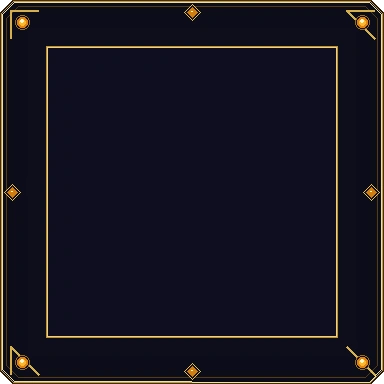
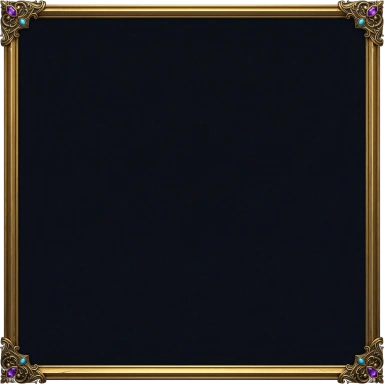
ui(vorath): rebuild 3D sculpted 9-slice plaques (N1/N3/N5/N6) and upgrade 27 Wave 3d standalone customer routes

diff --git a/maison-gooch/collection.css b/maison-gooch/collection.css
@@ -1,3 +1,14 @@
 :root{color-scheme:dark;--night:#0b0a0d;--paper:#eee8df;--gold:#d9b576;--muted:#b6b0ae;--line:#38302c}*{box-sizing:border-box}html{scroll-behavior:smooth;scroll-padding-top:20px}body{margin:0;background:var(--night);color:var(--paper);font-family:Arial,Helvetica,sans-serif}a{color:inherit}button{font:inherit}a:focus-visible,button:focus-visible{outline:3px solid #65e4d1;outline-offset:5px}.skip{position:absolute;left:20px;top:-100px;z-index:10}.skip:focus{top:20px;padding:16px;background:#111}.site-header{max-width:1560px;margin:auto;display:flex;align-items:center;justify-content:space-between;padding:28px 4vw;border-bottom:1px solid var(--line);gap:24px}.wordmark{font-size:12px;letter-spacing:.2em;font-weight:700;text-decoration:none}.site-header nav{display:flex;gap:28px;font-size:12px}.site-header nav a{text-decoration:none}.site-header nav a[aria-current]{color:var(--gold)}.hero{display:grid;grid-template-columns:.85fr 1.15fr;max-width:1560px;margin:auto;align-items:center;min-height:650px}.hero-copy{padding:70px 5vw}.eyebrow{text-transform:uppercase;letter-spacing:.18em;color:var(--gold);font-size:10px;font-weight:600;line-height:1.6}h1{font-family:Georgia,serif;font-size:clamp(46px,5vw,82px);line-height:.93;letter-spacing:-.04em;font-weight:400;margin:32px 0}h1 span{display:block;font-family:Georgia,serif;font-style:italic;font-size:clamp(24px,2.3vw,38px);line-height:1.15;color:var(--gold);letter-spacing:-.025em;margin-top:28px}.intro{font-size:15px;line-height:1.7;max-width:390px;color:var(--muted)}.button{display:inline-flex;align-items:center;justify-content:space-between;gap:28px;padding:16px 22px;border:1px solid var(--gold);text-decoration:none;font-size:12px;margin-top:22px}.gold{background:var(--gold);color:#171215}.availability{font-size:11px;line-height:1.7;color:var(--muted);max-width:320px;margin-top:24px}.hero-art{position:relative;display:block;margin:30px 4vw 30px 0;text-decoration:none;background:#d5c9b8}.hero-art img{width:100%;height:auto;display:block}.hero-art span{display:block;padding:16px 20px;font-size:10px;letter-spacing:.15em;text-transform:uppercase;background:#181417;color:var(--gold)}.editorial{text-align:center;padding:58px 24px 70px;border-top:1px solid var(--line);border-bottom:1px solid var(--line);background:radial-gradient(ellipse at 20% 110%,#113e372f,transparent 50%),radial-gradient(ellipse at 80% -20%,#6d245c30,transparent 50%)}.editorial>p:nth-child(2){font-family:Georgia,serif;font-size:clamp(22px,2.5vw,36px);line-height:1.4;margin:25px 0 18px}.editorial em{color:var(--gold)}.editorial>span{font-size:12px;color:var(--muted)}.collection{padding:70px 4vw;max-width:1560px;margin:auto}.section-head{display:flex;align-items:end;justify-content:space-between;gap:20px}.section-head h2,.development h2{font-family:Georgia,serif;font-weight:400;font-size:clamp(30px,3vw,48px);letter-spacing:-.02em;margin:8px 0 20px}.section-head>p{font-size:12px;color:var(--muted)}.filters{display:flex;gap:10px;flex-wrap:wrap;margin:22px 0 32px}.filters button{background:none;color:var(--muted);border:1px solid var(--line);padding:11px 16px;cursor:pointer;font-size:12px}.filters button[aria-pressed=true]{background:var(--paper);border-color:var(--paper);color:#171215}.pieces{display:grid;grid-template-columns:repeat(3,minmax(0,1fr));gap:32px 22px}.piece{min-width:0}.piece[hidden]{display:none}.art-link{display:block;overflow:hidden;background:#d5c9b8}.art-link img{display:block;width:100%;height:auto;aspect-ratio:3/2;object-fit:contain;transition:transform .35s}.art-link:hover img{transform:scale(1.025)}.piece-copy{padding:14px 1px 20px}.piece-copy h3{font-family:Georgia,serif;font-size:22px;font-weight:400;margin:8px 0;line-height:1.18}.piece-copy>p:not(.eyebrow){color:var(--muted);font-size:12px;line-height:1.6;min-height:38px}.piece-meta{display:flex;justify-content:space-between;border-top:1px solid var(--line);padding-top:12px;margin-top:16px;font-size:10px;color:var(--muted);gap:15px}.piece-meta span:first-child{color:var(--gold)}.development{max-width:1430px;margin:0 auto;padding:65px 4vw 85px;display:grid;grid-template-columns:1fr 1fr;gap:50px;border-top:1px solid var(--line)}.development p{font-size:14px;line-height:1.8;color:var(--muted)}.development .eyebrow{color:var(--gold);font-size:10px}footer{padding:40px 4vw;border-top:1px solid var(--line);font-size:11px;color:var(--muted);line-height:1.8}footer strong{letter-spacing:.14em;color:var(--gold);font-weight:400}dialog{padding:22px;max-width:96vw;width:1300px;max-height:94vh;background:#0c0b0e;border:1px solid var(--gold);color:var(--paper)}dialog::backdrop{background:#000d}dialog h2{font:20px Georgia,serif;margin:0 80px 16px 0}dialog img{max-height:72vh;width:100%;object-fit:contain}dialog p{font-size:12px;color:var(--muted)}#close-viewer{float:right;background:none;color:var(--gold);border:1px solid var(--line);padding:8px;cursor:pointer}.store-intro{padding:65px 4vw 35px;max-width:1250px;margin:auto}.store-intro h1{font-size:clamp(50px,8vw,95px);margin-bottom:24px}.store-options{max-width:1250px;margin:auto;padding:0 4vw 80px;display:grid;grid-template-columns:1fr 1fr;gap:28px}.store-option{border:1px solid var(--line);padding:28px;background:#151215}.store-option h2{font:34px Georgia,serif;font-weight:400}.store-option p{font-size:14px;color:var(--muted);line-height:1.7}.store-option img{display:block;width:100%;height:auto}.store-option .button{width:100%}@media(max-width:1050px){.hero{grid-template-columns:1fr 1fr;min-height:auto}.hero-copy{padding:48px 4vw}.pieces{grid-template-columns:repeat(2,minmax(0,1fr))}.hero-art{margin-right:3vw}.site-header nav{gap:18px}}@media(max-width:680px){.site-header{padding:20px;flex-wrap:wrap;gap:18px}.site-header nav{font-size:11px;gap:20px}.hero{display:flex;flex-direction:column}.hero-copy{padding:44px 24px 30px;width:100%}h1{font-size:60px}h1 span{font-size:30px}.hero-art{margin:0 20px 35px}.collection{padding:44px 20px}.pieces{grid-template-columns:1fr;gap:18px}.section-head{align-items:start}.section-head h2{font-size:32px}.section-head>p{white-space:nowrap;margin-top:35px}.filters{gap:8px}.filters button{font-size:11px;padding:10px 12px}.development{grid-template-columns:1fr;gap:10px;padding:44px 24px 60px}.piece-copy>p:not(.eyebrow){min-height:0}.editorial{padding:45px 20px}.store-options{grid-template-columns:1fr;padding:0 20px 50px}.store-intro{padding:35px 24px}.store-option{padding:22px}dialog{padding:14px}dialog img{max-height:65vh}}@media(prefers-reduced-motion:reduce){html{scroll-behavior:auto}*{transition:none!important}}
 
 .preorder-link{display:block;margin-top:16px;padding:13px 15px;border:1px solid var(--gold);color:var(--gold);text-decoration:none;text-align:center;font-size:12px}.piece-copy .stock-note{min-height:0!important;font-size:10px!important;margin:10px 0 0}.mail-help{font-size:11px!important}
+
+/* NSP-VORATH-WAVE3D */
+.wordmark{display:inline-flex;align-items:center;min-height:44px;padding:4px 12px!important;background:none!important;border-style:solid!important;border-color:transparent!important;border-radius:0!important;border-width:6px 14px!important;border-image:url("/warband/art/vorath_cartouche_9slice.webp") 22 64 fill / 6px 14px stretch!important;color:#fef3c7!important;white-space:nowrap;text-shadow:0 2px 4px #000}
+.site-header nav{gap:8px!important;flex-wrap:wrap}
+.site-header nav a,footer a{display:inline-flex!important;align-items:center;justify-content:center;min-height:44px;margin:2px;padding:4px 10px!important;background:none!important;border-style:solid!important;border-color:transparent!important;border-radius:0!important;border-width:6px 12px!important;border-image:url("/warband/art/vorath_stat_plaque_v01.webp") 18 36 fill / 6px 12px stretch!important;color:#fef3c7!important;text-decoration:none!important;text-shadow:0 1px 3px #000}
+.site-header nav a[aria-current]{border-image-source:url("/warband/art/vorath_btn_primary.webp")!important;border-image-slice:44 66 fill!important;color:#fffdf5!important}
+.button,.preorder-link,.filters button,#close-viewer{display:inline-flex!important;align-items:center;justify-content:center;min-height:44px;padding:6px 14px!important;background:none!important;border-style:solid!important;border-color:transparent!important;border-radius:0!important;border-width:8px 16px!important;border-image:url("/warband/art/vorath_btn_obsidian.webp") 44 66 fill / 8px 16px stretch!important;color:#fef3c7!important;text-decoration:none!important;text-shadow:0 2px 4px #000}
+.preorder-link{display:flex!important;width:100%}
+.button.gold,.filters button[aria-pressed=true]{border-image-source:url("/warband/art/vorath_btn_primary.webp")!important;color:#fffdf5!important}
+a.art-link{border-style:solid!important;border-color:transparent!important;border-radius:0!important;border-width:12px!important;border-image:url("/warband/art/vorath_card_frame_v01.webp") 48 / 12px stretch!important}
+a.art-link:focus-visible{outline:3px solid #65e4d1!important;outline-offset:-3px!important}

diff --git a/static/front-door.css b/static/front-door.css
@@ -44,7 +44,7 @@ a.card:focus-visible{outline:3px solid var(--ns-accent);outline-offset:-3px}
 .brand:hover,.brand:focus-visible{color:#fff;filter:brightness(1.07)}
 .brand img{width:30px;height:30px;border-radius:50%;flex:0 0 auto}
 .menu{display:flex;flex-wrap:wrap;align-items:center;gap:.25rem}
-.menu a{display:inline-flex;align-items:center;justify-content:center;min-height:40px;padding:3px 8px;background:none;border-style:solid;border-color:transparent;border-radius:0;border-width:6px 12px;border-image:url("/warband/art/vorath_stat_plaque_v01.webp") 18 36 fill / 6px 12px stretch;text-decoration:none;font-size:14px;font-weight:650;color:#fef3c7;text-shadow:0 1px 3px #000;white-space:nowrap}
+.menu a{display:inline-flex;align-items:center;justify-content:center;min-height:44px;padding:3px 8px;background:none;border-style:solid;border-color:transparent;border-radius:0;border-width:6px 12px;border-image:url("/warband/art/vorath_stat_plaque_v01.webp") 18 36 fill / 6px 12px stretch;text-decoration:none;font-size:14px;font-weight:650;color:#fef3c7;text-shadow:0 1px 3px #000;white-space:nowrap}
 .menu a:hover,.menu a:focus-visible{background:none;border-image-source:url("/warband/art/vorath_btn_active.webp");border-image-slice:44 66 fill;color:#fff;filter:brightness(1.08)}
 
 /* buttons: Vorath 9-slice obsidian & gilded primary plaques */
@@ -66,7 +66,7 @@ a.card:focus-visible{outline:3px solid var(--ns-accent);outline-offset:-3px}
 
 /* cards: static panels use dark obsidian; interactive link cards use Vorath 24k gold relic frames */
 .card{position:relative;display:flex;flex-direction:column;background:var(--ns-card);border:1px solid var(--ns-line);border-radius:var(--ns-radius);box-shadow:var(--ns-shadow);overflow:hidden;text-decoration:none;color:var(--ns-ink)}
-a.card{background-color:var(--ns-card);background-image:none;border-style:solid;border-color:transparent;border-radius:0;border-width:12px;border-image:url("/warband/art/vorath_card_frame_v01.webp") 48 fill / 12px round}
+a.card{background-color:var(--ns-card);background-image:none;border-style:solid;border-color:transparent;border-radius:0;border-width:14px;border-image:url("/warband/art/vorath_card_frame_v01.webp") 48 fill / 14px stretch}
 .card-body{display:flex;flex-direction:column;gap:.35rem;padding:1.15rem 1.25rem 1.25rem;flex:1;min-width:0;overflow-wrap:break-word}
 .card h3{font-size:22px;overflow-wrap:break-word}
 .card p{color:var(--ns-muted);font-size:16px;line-height:1.5;overflow-wrap:break-word}
@@ -115,11 +115,10 @@ a.card:hover,a.card:focus-visible{border-color:transparent;filter:brightness(1.0
 @media (max-width:720px){
   body{font-size:16px}
   .top .wrap{flex-direction:column;align-items:stretch;gap:.25rem;padding-block:.2rem .25rem}
-  .brand{align-self:flex-start;min-height:40px;font-size:15px;padding:3px 9px;border-width:6px 12px;border-image-width:6px 12px}
+  .brand{align-self:flex-start;min-height:44px;font-size:15px;padding:3px 9px;border-width:6px 12px;border-image-width:6px 12px}
   .brand img{width:26px;height:26px}
-  .menu{display:flex;flex-wrap:nowrap;overflow-x:auto;-webkit-overflow-scrolling:touch;scrollbar-width:none;justify-content:flex-start;gap:.25rem;margin-inline:0;padding-bottom:2px}
-  .menu::-webkit-scrollbar{display:none}
-  .menu a{flex-shrink:0;white-space:nowrap;min-height:38px;padding:3px 7px;border-width:5px 9px;border-image-width:5px 9px;font-size:13px}
+  .menu{display:flex;flex-wrap:wrap;overflow:visible;justify-content:flex-start;gap:.16rem;margin-inline:0;padding-bottom:2px}
+  .menu a{white-space:nowrap;min-height:44px;padding:2px 4px;border-width:5px 7px;border-image-width:5px 7px;font-size:14px}
   .button{padding:6px 12px;border-width:9px 16px;border-image-width:9px 16px;font-size:15px}
   .hero{grid-template-columns:minmax(0,1fr) 112px;grid-template-rows:auto;gap:.6rem 1rem;padding-block:1rem .5rem}
   .hero h1{font-size:28px;grid-column:1;grid-row:1;align-self:center}
@@ -135,7 +134,7 @@ a.card:hover,a.card:focus-visible{border-color:transparent;filter:brightness(1.0
   .services p{margin-top:.2rem;font-size:15px}
   .doors{grid-template-columns:repeat(2,minmax(0,1fr));gap:.6rem;margin-top:.6rem}
   .doors-text{display:contents}
-  a.card{border-width:10px;border-image-width:10px}
+  a.card{border-width:12px;border-image-width:12px}
   .card-body{padding:.8rem .9rem .9rem;gap:.2rem}
   .card h3{font-size:19px}
   .card p{font-size:15px;line-height:1.45}

diff --git a/idc-programming/index.html b/idc-programming/index.html
@@ -1952,7 +1952,18 @@ function loadTrailer(src, poster, title, sub) {
   <a href="/idr" style="flex:none;color:#00e5ff;font-size:.66rem;letter-spacing:1px;text-decoration:none;border:1px solid rgba(0,229,255,.4);border-radius:5px;padding:.28rem .6rem">FULL STATION</a>
   <audio id="idr-audio" preload="none"></audio>
 </div>
-<style>@keyframes idrpulse{50%{opacity:.3}}@media (prefers-reduced-motion:reduce){ #idr-live{animation:none}} body{padding-bottom:56px}</style>
+<style>@keyframes idrpulse{50%{opacity:.3}}@media (prefers-reduced-motion:reduce){ #idr-live{animation:none}} body{padding-bottom:56px}
+/* NSP-VORATH-WAVE3D */
+nav a.nav-brand{display:inline-flex!important;align-items:center;min-height:46px;padding:4px 12px!important;background:none!important;border-style:solid!important;border-color:transparent!important;border-radius:0!important;border-width:7px 15px!important;border-image:url("/warband/art/vorath_cartouche_9slice.webp") 22 64 fill / 7px 15px stretch!important;color:#fef3c7!important;text-shadow:0 2px 4px #000;white-space:nowrap;flex-shrink:0}
+nav .nav-links{display:flex!important;flex-wrap:nowrap!important;overflow-x:auto!important;overflow-y:hidden!important;scrollbar-width:thin!important;scrollbar-color:#d4a74a rgba(255,255,255,.08)!important;-webkit-overflow-scrolling:touch;max-width:min(74vw,1120px)!important;gap:.35rem!important;padding-bottom:4px!important;-webkit-mask-image:linear-gradient(90deg,#000 0%,#000 92%,transparent 100%);mask-image:linear-gradient(90deg,#000 0%,#000 92%,transparent 100%)}
+nav .nav-links a,footer a,#idr-dock>a,body>p>a{display:inline-flex!important;align-items:center;justify-content:center;flex:0 0 auto;white-space:nowrap;min-height:44px;margin:1px;padding:4px 9px!important;background:none!important;border-style:solid!important;border-color:transparent!important;border-radius:0!important;border-width:6px 11px!important;border-image:url("/warband/art/vorath_stat_plaque_v01.webp") 18 36 fill / 6px 11px stretch!important;color:#fef3c7!important;text-decoration:none!important;text-shadow:0 1px 3px #000}
+@media (max-width:760px){nav{flex-direction:column!important;align-items:stretch!important;gap:6px!important;padding:8px 12px!important}nav a.nav-brand{align-self:flex-start!important;min-height:44px;padding:3px 10px!important}nav .nav-links{max-width:100%!important;gap:.22rem!important}nav .nav-links a{padding:2px 6px!important;border-width:5px 8px!important;border-image-width:5px 8px!important;font-size:13.5px!important}}
+#idc-continuum a,#idc-screening-room button{background:none!important;border-style:solid!important;border-color:transparent!important;border-radius:0!important;border-width:12px!important;border-image:url("/warband/art/vorath_card_frame_v01.webp") 48 fill / 12px stretch!important;color:#fef3c7!important;box-shadow:0 10px 26px rgba(0,0,0,.6)!important}
+body>a[href="/watch/choice-to-repair/"]{border-style:solid!important;border-color:transparent!important;border-radius:0!important;border-width:12px!important;border-image:url("/warband/art/vorath_card_frame_v01.webp") 48 / 12px stretch!important}
+a#idc-theater-download,button#idc-playall,.buy-btn,a[href*="youtube.com"],a[href*="youtu.be"],a[href*=".mp4"]:not([id="idc-theater-download"]){display:inline-flex!important;align-items:center;justify-content:center;min-height:44px;padding:4px 12px!important;background:none!important;border-style:solid!important;border-color:transparent!important;border-radius:0!important;border-width:7px 14px!important;border-image:url("/warband/art/vorath_btn_obsidian.webp") 44 66 fill / 7px 14px stretch!important;color:#fef3c7!important;text-decoration:none!important;box-shadow:none!important;text-shadow:0 2px 4px #000}
+.idc-season-feature-grid .buy-btn,button#idc-playall{border-image-source:url("/warband/art/vorath_btn_primary.webp")!important;color:#fffdf5!important}
+button#idr-toggle{background:url("/warband/art/vorath_btn_primary.webp") center / 100% 100% no-repeat!important;border:0!important;border-radius:0!important;color:#fffdf5!important;box-shadow:none!important}
+</style>
 <script>
 (function(){
   var a=document.getElementById('idr-audio'),btn=document.getElementById('idr-toggle'),

diff --git a/idr/customer-radio.css b/idr/customer-radio.css
@@ -8,3 +8,15 @@
 @media(max-width:360px){.masthead{flex-wrap:wrap}.masthead nav{width:100%;justify-content:space-between}.hero-actions{gap:18px}}
 @media(max-width:720px),(max-height:500px){body{padding-bottom:0}#idr-station-player{position:static;z-index:auto;background:none;box-shadow:none;padding:20px 0 28px}}
 @media(prefers-reduced-motion:reduce){*,*::before,*::after{scroll-behavior:auto!important;animation:none!important;transition:none!important}}
+
+/* NSP-VORATH-WAVE3D */
+header.masthead .brand{display:inline-flex;align-items:center;min-height:44px;padding:4px 12px;background:none!important;border-style:solid!important;border-color:transparent!important;border-radius:0!important;border-width:6px 14px!important;border-image:url("/warband/art/vorath_cartouche_9slice.webp") 22 64 fill / 6px 14px stretch!important;color:#fef3c7!important;text-shadow:0 2px 4px #000;white-space:nowrap}
+header.masthead nav{gap:6px!important}
+header.masthead nav a,footer.site-footer a,.page-footer a{display:inline-flex!important;align-items:center;justify-content:center;min-height:44px;padding:3px 9px!important;background:none!important;border-style:solid!important;border-color:transparent!important;border-radius:0!important;border-width:5px 11px!important;border-image:url("/warband/art/vorath_stat_plaque_v01.webp") 18 36 fill / 5px 11px stretch!important;color:#fef3c7!important;text-decoration:none!important;box-shadow:none!important;text-shadow:0 1px 3px #000}
+header.masthead nav a[aria-current]{border-image-source:url("/warband/art/vorath_btn_primary.webp")!important;border-image-slice:44 66 fill!important;color:#fffdf5!important}
+button#idr-onair-btn,.primary,.idr-track-play[aria-pressed="true"]{display:inline-flex;align-items:center;justify-content:center;min-height:44px;padding:6px 16px!important;background:none!important;border-style:solid!important;border-color:transparent!important;border-radius:0!important;border-width:9px 18px!important;border-image:url("/warband/art/vorath_btn_primary.webp") 44 66 fill / 9px 18px stretch!important;color:#fffdf5!important;text-shadow:0 2px 4px #000;text-decoration:none!important}
+.hero-actions a:not(.primary),.story a,button.idr-track-play,.idr-station-controls button{display:inline-flex!important;align-items:center;justify-content:center;min-height:44px;padding:5px 12px!important;background:none!important;border-style:solid!important;border-color:transparent!important;border-radius:0!important;border-width:7px 14px!important;border-image:url("/warband/art/vorath_btn_obsidian.webp") 44 66 fill / 7px 14px stretch!important;color:#fef3c7!important;text-decoration:none!important;text-shadow:0 2px 4px #000}
+select#idr-genre,select{-webkit-appearance:none!important;appearance:none!important;min-height:44px;padding:6px 14px!important;background:none!important;border-style:solid!important;border-color:transparent!important;border-radius:0!important;border-width:7px 14px!important;border-image:url("/warband/art/vorath_stat_plaque_v01.webp") 18 36 fill / 7px 14px stretch!important;color:#fef3c7!important}
+details.extras>summary{display:flex;align-items:center;min-height:46px;padding:6px 14px!important;background:none!important;border-style:solid!important;border-color:transparent!important;border-radius:0!important;border-width:8px 16px!important;border-image:url("/warband/art/vorath_cartouche_9slice.webp") 22 64 fill / 8px 16px stretch!important;color:#fef3c7!important;list-style:none}
+details.extras>summary::-webkit-details-marker{display:none}
+button.idr-track-play:hover,.idr-station-controls button:hover,.story a:hover,.hero-actions a:hover,header.masthead nav a:hover,footer.site-footer a:hover{border-image-source:url("/warband/art/vorath_btn_active.webp")!important;border-image-slice:44 66 fill!important;color:#fff!important}

diff --git a/idr/artwork/nordic-skaldic-chant/index.html b/idr/artwork/nordic-skaldic-chant/index.html
@@ -1,4 +1,11 @@
 <!doctype html>
 <html lang="en"><head><meta charset="utf-8"><meta name="viewport" content="width=device-width,initial-scale=1"><title>Nordic Skaldic Chant · Cover artwork | NorthStar Prime</title><meta name="description" content="Original cover artwork for Nordic Skaldic Chant by NorthStar World Ensemble. Download the native artwork."><style>
 :root{color-scheme:dark;background:#060c15;color:#f2ebd8;font-family:Georgia,'Times New Roman',serif}*{box-sizing:border-box}body{margin:0}a{color:inherit}.brand{display:block;padding:28px 5vw;text-decoration:none;letter-spacing:.18em;font-size:13px;border-bottom:1px solid #bc95573d}main{max-width:1400px;margin:auto;padding:48px 5vw;display:grid;grid-template-columns:minmax(0,1.15fr) minmax(280px,.85fr);gap:48px;align-items:center}.cover{width:100%;height:auto;display:block;border:1px solid #bd95574a;box-shadow:0 18px 75px #0008}.eyebrow{color:#bca67d;letter-spacing:.18em;font-size:12px}h1{font-weight:400;font-size:clamp(38px,4.7vw,72px);line-height:1.08;margin:20px 0}p{font-size:19px;line-height:1.65;color:#c3c8cf}.artist{color:#dfc392;font-size:17px;letter-spacing:.1em}.download{display:inline-block;border-bottom:1px solid #d8bc85;padding:15px 0;text-decoration:none;letter-spacing:.06em;color:#f0d8aa}.download:hover{color:#fff}.download:focus-visible,.brand:focus-visible{outline:2px solid #72d8da;outline-offset:6px}.detail{font-size:14px;color:#94a0b0}footer{max-width:1400px;margin:auto;padding:0 5vw 40px;font-size:13px;color:#818b9b} @media(max-width:750px){main{grid-template-columns:1fr;padding-top:24px;gap:28px}h1{font-size:42px}.brand{padding-top:20px;padding-bottom:20px}}
+
+/* NSP-VORATH-WAVE3D */
+a[href],button{display:inline-flex;align-items:center;justify-content:center;min-height:44px;margin:2px;padding:5px 12px!important;background:none!important;border-style:solid!important;border-color:transparent!important;border-radius:0!important;border-width:7px 14px!important;border-image:url("/warband/art/vorath_stat_plaque_v01.webp") 18 36 fill / 7px 14px stretch!important;color:#fef3c7!important;text-decoration:none!important;text-shadow:0 1px 3px #000}
+a.brand{border-image:url("/warband/art/vorath_cartouche_9slice.webp") 22 64 fill / 7px 15px stretch!important}
+a.button,a.download{border-width:9px 18px!important;border-image:url("/warband/art/vorath_btn_primary.webp") 44 66 fill / 9px 18px stretch!important;color:#fffdf5!important;font-weight:700}
+nav.toc a{display:flex!important;justify-content:flex-start;width:100%}
+a[href]:hover,button:hover{border-image-source:url("/warband/art/vorath_btn_active.webp")!important;border-image-slice:44 66 fill!important;color:#fff!important}
 </style></head><body><a class="brand" href="https://northstarprime.net/">NORTHSTAR PRIME</a><main><img class="cover" src="./NORDIC_SKALDIC_CHANT_COVER_v02.png" width="1254" height="1254" alt="Gold-carved Nordic lyre overlooking a moonlit glacial fjord beneath a rainbow aurora, with engraved Nordic Skaldic Chant lettering."><section><div class="eyebrow">IDR · ORIGINAL COVER ART</div><h1>Nordic Skaldic Chant</h1><p class="artist">NorthStar World Ensemble</p><p>A lyre carved in gold and dark wood. A silent fjord beneath ribbons of jewel-colored aurora. An original visual companion to the recording.</p><a class="download" href="./NORDIC_SKALDIC_CHANT_COVER_v02.png" download="NORDIC_SKALDIC_CHANT_COVER_v02.png">Download cover artwork ↗</a><p class="detail">Native PNG · 1254 × 1254 pixels<br>Original AI-assisted artwork · Cover edition 02</p><p class="detail">This page presents cover artwork. The recording is awaiting editorial listening review; no music video is released here.</p></section></main><footer>© 2026 NorthStar Prime · Digital artwork</footer></body></html>

diff --git a/coloring-studio/index.html b/coloring-studio/index.html
@@ -27,6 +27,17 @@
 #paintStatus{font-size:.95rem;line-height:1.5}#paintStatus[data-state="error"]{color:#ffaaa7}button:disabled{opacity:.45;cursor:not-allowed}.canvas-wrap{min-width:0}canvas{touch-action:none;max-width:100%;height:auto}.palette button{padding:0;min-width:48px;min-height:48px}.tabs{flex-wrap:wrap}.stream-controls{display:none}html{scroll-behavior:auto}.page-card{scroll-snap-align:none}@media(max-width:700px){.studio{padding:1rem}.panel{min-width:0}.canvas-wrap{padding:.5rem}.gallery{overflow:hidden}.page-card{padding:2rem 1rem}.studio-links{flex-wrap:wrap}}
 
 @media screen{.canvas-wrap{min-height:0}.canvas-wrap canvas{width:auto;height:auto;max-height:80vh;max-width:100%}}
+
+/* NSP-VORATH-WAVE3D */
+.hero h1{line-height:1.1!important;padding-bottom:.06em!important}
+.studio-brand{padding:5px 12px!important;background:none!important;border-style:solid!important;border-color:transparent!important;border-radius:0!important;border-width:7px 15px!important;border-image:url("/warband/art/vorath_cartouche_9slice.webp") 22 64 fill / 7px 15px stretch!important;color:#fef3c7!important;min-height:44px;white-space:nowrap}
+.studio-links a{display:inline-flex!important;align-items:center;justify-content:center;min-height:44px;padding:4px 10px!important;background:none!important;border-style:solid!important;border-color:transparent!important;border-radius:0!important;border-width:6px 12px!important;border-image:url("/warband/art/vorath_stat_plaque_v01.webp") 18 36 fill / 6px 12px stretch!important;color:#fef3c7!important;text-shadow:0 1px 3px #000}
+.tab,.control,.page-action,.page-nav button,.stream-controls button,a#collectionDownload,a.order{background:none!important;border-style:solid!important;border-color:transparent!important;border-radius:0!important;border-width:8px 16px!important;border-image:url("/warband/art/vorath_btn_obsidian.webp") 44 66 fill / 8px 16px stretch!important;color:#fef3c7!important;box-shadow:none!important;text-shadow:0 2px 4px #000}
+a#collectionDownload,a.order{padding:8px 18px!important}
+.tab[aria-selected="true"],.control.active,.paint-action,.print-action,.control.primary,a#collectionDownload,a.order{border-image-source:url("/warband/art/vorath_btn_primary.webp")!important;color:#fffdf5!important}
+.swatch{border-style:solid!important;border-color:transparent!important;border-radius:0!important;border-width:6px!important;border-image:url("/warband/art/vorath_card_frame_v01.webp") 48 / 6px stretch!important}
+input#brushSize.range{-webkit-appearance:none!important;appearance:none!important;height:28px!important;padding:0 6px!important;background:url("/warband/art/vorath_stat_plaque_v01.webp") center / 100% 100% no-repeat!important;border:0!important;border-radius:0!important;cursor:pointer}
+input#brushSize.range::-webkit-slider-thumb{-webkit-appearance:none;appearance:none;width:20px;height:20px;background:url("/warband/art/vorath_btn_primary.webp") center / 100% 100% no-repeat;border:0;cursor:pointer}
 </style>
 <script type="application/ld+json">{"@context": "https://schema.org", "@type": "WebPage", "name": "PaintForge · NorthStar Free Coloring Studio", "url": "https://northstarprime.net/coloring-studio/", "isPartOf": {"@type": "WebSite", "name": "NorthStar Prime", "url": "https://northstarprime.net/"}, "publisher": {"@type": "Organization", "name": "NorthStar Prime", "url": "https://northstarprime.net/"}, "description": "PaintForge: 20 reviewed NorthStar coloring pages shown individually at full resolution, with free browser painting for guests.", "inLanguage": "en"}</script>
 </head>

diff --git a/watch/choice-to-repair/index.html b/watch/choice-to-repair/index.html
@@ -15,6 +15,11 @@
 <link rel="icon" href="/favicon.svg" type="image/svg+xml">
 <style>
 :root{color-scheme:dark;font-family:system-ui,sans-serif;background:#080911;color:#f4eedf}*{box-sizing:border-box}body{margin:0;background:radial-gradient(ellipse at 15% 10%,#27314766,transparent 45%),radial-gradient(ellipse at 90% 60%,#462a4555,transparent 50%),#080911}a{color:#eed093;text-underline-offset:.25em}a:hover{color:#fff}a:focus-visible,video:focus-visible{outline:3px solid #97eaf0;outline-offset:5px}header,main,footer{max-width:1100px;margin:auto;padding:24px}header{display:flex;justify-content:space-between;gap:20px;flex-wrap:wrap;border-bottom:1px solid #d2ae612d}header a{text-decoration:none}header strong{letter-spacing:.12em}main{padding-top:52px}.eyebrow{color:#b0d8dc;letter-spacing:.22em;text-transform:uppercase;font-size:.73rem}h1{font-family:Georgia,serif;font-size:clamp(2.3rem,6vw,4.8rem);font-weight:400;line-height:1.1;margin:.3em 0}.intro{color:#c6c4ca;font-size:1.12rem;line-height:1.7;max-width:640px}figure{margin:32px 0 24px}video{display:block;width:100%;aspect-ratio:16/9;background:#000;border:1px solid #d2ae6166;border-radius:12px;box-shadow:0 18px 70px #0008}figcaption{color:#aaa8b4;font-size:.84rem;line-height:1.6;margin-top:12px}.details{display:grid;grid-template-columns:1.2fr 1fr;gap:40px;margin-top:35px;padding-top:24px;border-top:1px solid #d2ae612d}h2{font:1.4rem Georgia,serif}p{line-height:1.7}.transcript{font:italic 1.65rem Georgia,serif;color:#eed093}.note{color:#aaa8b4;font-size:.87rem}footer{color:#aaa8b4;margin-top:35px;border-top:1px solid #d2ae612d;font-size:.85rem}@media(max-width:600px){header,main,footer{padding:20px}main{padding-top:30px}.details{grid-template-columns:1fr;gap:8px}}
+
+/* NSP-VORATH-WAVE3D */
+header a,.details a,video a{display:inline-flex;align-items:center;justify-content:center;min-height:44px;padding:5px 12px!important;background:none!important;border-style:solid!important;border-color:transparent!important;border-radius:0!important;border-width:7px 14px!important;border-image:url("/warband/art/vorath_stat_plaque_v01.webp") 18 36 fill / 7px 14px stretch!important;color:#fef3c7!important;text-decoration:none!important;text-shadow:0 1px 3px #000}
+header a:first-child{border-image:url("/warband/art/vorath_cartouche_9slice.webp") 22 64 fill / 7px 16px stretch!important}
+.details a{border-width:8px 16px!important;border-image:url("/warband/art/vorath_btn_primary.webp") 44 66 fill / 8px 16px stretch!important;color:#fffdf5!important;font-weight:700}
 </style>
 <script type="application/ld+json">{"@context": "https://schema.org", "@type": "WebPage", "name": "The Choice to Repair · NorthStar Prime", "url": "https://northstarprime.net/watch/choice-to-repair/", "isPartOf": {"@type": "WebSite", "name": "NorthStar Prime", "url": "https://northstarprime.net/"}, "publisher": {"@type": "Organization", "name": "NorthStar Prime", "url": "https://northstarprime.net/"}, "description": "An eight-second original VORATH film: an aurora eye opens onto the golden Loomwheel. I can repair.", "inLanguage": "en"}</script>
 </head>

diff --git a/dharma/index.html b/dharma/index.html
@@ -710,6 +710,16 @@
     transition: opacity 0.8s ease-in-out;
   }
   #flash-overlay.active { opacity: 1; }
+
+/* NSP-VORATH-WAVE3D */
+nav .nav-links a,footer .footer-links a,.card p a{display:inline-flex!important;align-items:center;justify-content:center;flex:0 0 auto;white-space:nowrap;min-height:44px;margin:2px;padding:4px 10px!important;background:none!important;border-style:solid!important;border-color:transparent!important;border-radius:0!important;border-width:6px 12px!important;border-image:url("/warband/art/vorath_stat_plaque_v01.webp") 18 36 fill / 6px 12px stretch!important;color:#fef3c7!important;text-decoration:none!important;text-shadow:0 1px 3px #000}
+@media (max-width:760px){nav{flex-direction:column!important;align-items:flex-start!important;gap:8px!important}nav .nav-links{display:flex!important;flex-wrap:wrap!important;overflow:visible!important;max-width:100%!important;gap:.25rem!important}nav .nav-links a{padding:2px 7px!important;border-width:5px 9px!important;border-image-width:5px 9px!important}}
+.terminal-input-row{flex-wrap:wrap!important;gap:8px!important}
+button#btnExecute,button#btnFailsafe,button#btnAudioToggle,button#btnStateInflight,button#btnStateCrashed,button#btnSubmitTest{display:inline-flex!important;align-items:center;justify-content:center;min-height:44px;padding:5px 14px!important;background:none!important;border-style:solid!important;border-color:transparent!important;border-radius:0!important;border-width:8px 16px!important;border-image:url("/warband/art/vorath_btn_obsidian.webp") 44 66 fill / 8px 16px stretch!important;color:#fef3c7!important;box-shadow:none!important;text-shadow:0 2px 4px #000}
+button#btnStateInflight,button#btnSubmitTest{border-image-source:url("/warband/art/vorath_btn_primary.webp")!important;color:#fffdf5!important}
+input#termInput{-webkit-appearance:none!important;appearance:none!important;flex:1 1 160px!important;min-width:0!important;max-width:100%!important;min-height:42px;padding:4px 10px!important;background:none!important;border-style:solid!important;border-color:transparent!important;border-radius:0!important;border-width:6px 12px!important;border-image:url("/warband/art/vorath_stat_plaque_v01.webp") 18 36 fill / 6px 12px stretch!important;color:var(--crt-green)!important}
+.option-label input[type="radio"]{-webkit-appearance:none!important;appearance:none!important;width:22px!important;height:22px!important;min-width:22px!important;margin:0 8px 0 0!important;background:url("/warband/art/vorath_btn_obsidian.webp") center / 100% 100% no-repeat!important;border:0!important;border-radius:0!important;cursor:pointer;vertical-align:middle}
+.option-label input[type="radio"]:checked{background:url("/warband/art/vorath_btn_primary.webp") center / 100% 100% no-repeat!important;box-shadow:0 0 8px rgba(245,197,66,.75)!important}
 </style>
 </head>
 <body>

diff --git a/holidays/index.html b/holidays/index.html
@@ -3541,7 +3541,14 @@
   <a href="/idr" style="flex:none;color:#00e5ff;font-size:.66rem;letter-spacing:1px;text-decoration:none;border:1px solid rgba(0,229,255,.4);border-radius:5px;padding:.28rem .6rem">FULL STATION</a>
   <audio id="idr-audio" preload="none"></audio>
 </div>
-<style>@keyframes idrpulse{50%{opacity:.3}}@media (prefers-reduced-motion:reduce){ #idr-live{animation:none}} body{padding-bottom:56px}</style>
+<style>@keyframes idrpulse{50%{opacity:.3}}@media (prefers-reduced-motion:reduce){ #idr-live{animation:none}} body{padding-bottom:56px}
+/* NSP-VORATH-WAVE3D */
+nav a.nav-brand{display:inline-flex!important;align-items:center;min-height:46px;padding:4px 12px!important;background:none!important;border-style:solid!important;border-color:transparent!important;border-radius:0!important;border-width:7px 15px!important;border-image:url("/warband/art/vorath_cartouche_9slice.webp") 22 64 fill / 7px 15px stretch!important;color:#fef3c7!important;text-shadow:0 2px 4px #000;white-space:nowrap;flex-shrink:0}
+nav .nav-links a,footer a,#idr-dock>a,.section>a[href*="ckd-kitchen"],.recipe-content a,tbody td a{display:inline-flex!important;align-items:center;justify-content:center;min-height:44px;margin:2px;padding:4px 10px!important;background:none!important;border-style:solid!important;border-color:transparent!important;border-radius:0!important;border-width:6px 12px!important;border-image:url("/warband/art/vorath_stat_plaque_v01.webp") 18 36 fill / 6px 12px stretch!important;color:#fef3c7!important;text-decoration:none!important;text-shadow:0 1px 3px #000}
+a.holiday-jump,a.holiday-buy,.tier-btn{display:inline-flex!important;align-items:center;justify-content:center;min-height:46px;padding:6px 14px!important;background:none!important;border-style:solid!important;border-color:transparent!important;border-radius:0!important;border-width:8px 16px!important;border-image:url("/warband/art/vorath_btn_primary.webp") 44 66 fill / 8px 16px stretch!important;color:#fffdf5!important;text-decoration:none!important;box-shadow:none!important;text-shadow:0 2px 4px #000}
+button.tier-btn,a.holiday-jump{border-image-source:url("/warband/art/vorath_btn_obsidian.webp")!important;color:#fef3c7!important}
+button#idr-toggle{background:url("/warband/art/vorath_btn_primary.webp") center / 100% 100% no-repeat!important;border:0!important;border-radius:0!important;color:#fffdf5!important;box-shadow:none!important}
+</style>
 <script>
 (function(){
   var a=document.getElementById('idr-audio'),btn=document.getElementById('idr-toggle'),

diff --git a/research/index.html b/research/index.html
@@ -72,6 +72,13 @@
     color: var(--gold);
     border-color: rgba(245, 197, 66, 0.45);
   }
+
+/* NSP-VORATH-WAVE3D */
+.topline a{display:inline-flex;align-items:center;min-height:44px;margin:2px;padding:4px 10px!important;background:none!important;border-style:solid!important;border-color:transparent!important;border-radius:0!important;border-width:6px 12px!important;border-image:url("/warband/art/vorath_stat_plaque_v01.webp") 18 36 fill / 6px 12px stretch!important;color:#fef3c7!important;text-decoration:none!important;text-shadow:0 1px 3px #000}
+.paper-card h2 a{display:block;padding:6px 12px!important;background:none!important;border-style:solid!important;border-color:transparent!important;border-radius:0!important;border-width:8px 16px!important;border-image:url("/warband/art/vorath_cartouche_9slice.webp") 22 64 fill / 8px 16px stretch!important;color:#fef3c7!important;text-shadow:0 2px 4px #000}
+.btn,.btn-gold{display:inline-flex;align-items:center;justify-content:center;min-height:44px;padding:4px 12px!important;background:none!important;border-style:solid!important;border-color:transparent!important;border-radius:0!important;border-width:7px 14px!important;border-image:url("/warband/art/vorath_btn_obsidian.webp") 44 66 fill / 7px 14px stretch!important;color:#fef3c7!important;text-decoration:none!important;text-shadow:0 1px 3px #000}
+.btn-gold{border-image-source:url("/warband/art/vorath_btn_primary.webp")!important;color:#fffdf5!important}
+.btn:hover,.btn-gold:hover,.topline a:hover,.paper-card h2 a:hover{border-image-source:url("/warband/art/vorath_btn_active.webp")!important;border-image-slice:44 66 fill!important;color:#fff!important}
 </style>
 <script type="application/ld+json">{"@context": "https://schema.org", "@type": "WebPage", "name": "Open-Science Preprints, Dissertations & Monographs — NorthStar Prime", "url": "https://northstarprime.net/research/", "isPartOf": {"@type": "WebSite", "name": "NorthStar Prime", "url": "https://northstarprime.net/"}, "publisher": {"@type": "Organization", "name": "NorthStar Prime", "url": "https://northstarprime.net/"}, "description": "Open-access scholarly monographs, doctoral dissertations, scientific field bibles, BibTeX/RIS citations, and reproducible Python verification suites from NorthStar Prime.", "inLanguage": "en"}</script>
 </head>

diff --git a/tcg/index.html b/tcg/index.html
@@ -547,7 +547,13 @@
       text-transform: uppercase;
       letter-spacing: 0.5px;
     }
-  </style>
+  
+/* NSP-VORATH-WAVE3D */
+.nav-btn,.filter-tag,.btn-action{display:inline-flex!important;align-items:center;justify-content:center;min-height:42px;padding:4px 11px!important;background:none!important;border-style:solid!important;border-color:transparent!important;border-radius:0!important;border-width:7px 13px!important;border-image:url("/warband/art/vorath_btn_obsidian.webp") 44 66 fill / 7px 13px stretch!important;color:#fef3c7!important;text-decoration:none!important;box-shadow:none!important;text-shadow:0 1px 3px #000}
+.nav-btn-highlight,.filter-tag.active,.btn-action.btn-add-deck{border-image-source:url("/warband/art/vorath_btn_primary.webp")!important;color:#fffdf5!important}
+.nav-btn:hover,.filter-tag:hover,.btn-action:hover{border-image-source:url("/warband/art/vorath_btn_active.webp")!important;color:#fff!important}
+select.nav-btn,select#preset-select,select#cpu-opponent-select,select#forge-rarity,select#forge-archetype,input#search-input,input.search-box,input#forge-title{-webkit-appearance:none!important;appearance:none!important;min-height:42px;max-width:min(100%,calc(100vw - 36px))!important;min-width:0!important;box-sizing:border-box!important;overflow:hidden!important;text-overflow:ellipsis!important;padding:4px 12px!important;background:none!important;border-style:solid!important;border-color:transparent!important;border-radius:0!important;border-width:7px 14px!important;border-image:url("/warband/art/vorath_stat_plaque_v01.webp") 18 36 fill / 7px 14px stretch!important;color:#fef3c7!important;box-shadow:none!important}
+</style>
 <script type="application/ld+json">{"@context": "https://schema.org", "@type": "WebPage", "name": "NorthStar Sovereign TCG // 3D Holographic Card Binder", "url": "https://northstarprime.net/tcg/", "isPartOf": {"@type": "WebSite", "name": "NorthStar Prime", "url": "https://northstarprime.net/"}, "publisher": {"@type": "Organization", "name": "NorthStar Prime", "url": "https://northstarprime.net/"}, "description": "Official NorthStar Prime Sovereign Trading Card Game (TCG) 3D Holographic Card Binder and Deckbuilder sandbox featuring 71 master cards across 7 archetypes.", "inLanguage": "en"}</script>
 </head>
 <body>

diff --git a/idr/signal-refrains/volume-01/index.html b/idr/signal-refrains/volume-01/index.html
@@ -48,7 +48,14 @@
     footer { padding:2rem 1rem 4rem; color:var(--dim); text-align:center; font:500 .76rem/1.5 system-ui,sans-serif; }
     @media (max-width:700px) { .toc { grid-template-columns:1fr; } nav span { display:none; } .hero { min-height:auto; } }
     @media (prefers-reduced-motion:no-preference) { h1 { animation:spectrum 10s linear infinite; } @keyframes spectrum { to { background-position:220% center; } } }
-  </style>
+  
+/* NSP-VORATH-WAVE3D */
+a[href],button{display:inline-flex;align-items:center;justify-content:center;min-height:44px;margin:2px;padding:5px 12px!important;background:none!important;border-style:solid!important;border-color:transparent!important;border-radius:0!important;border-width:7px 14px!important;border-image:url("/warband/art/vorath_stat_plaque_v01.webp") 18 36 fill / 7px 14px stretch!important;color:#fef3c7!important;text-decoration:none!important;text-shadow:0 1px 3px #000}
+a.brand{border-image:url("/warband/art/vorath_cartouche_9slice.webp") 22 64 fill / 7px 15px stretch!important}
+a.button,a.download{border-width:9px 18px!important;border-image:url("/warband/art/vorath_btn_primary.webp") 44 66 fill / 9px 18px stretch!important;color:#fffdf5!important;font-weight:700}
+nav.toc a{display:flex!important;justify-content:flex-start;width:100%}
+a[href]:hover,button:hover{border-image-source:url("/warband/art/vorath_btn_active.webp")!important;border-image-slice:44 66 fill!important;color:#fff!important}
+</style>
 <script type="application/ld+json">{"@context": "https://schema.org", "@type": "WebPage", "name": "Signal Refrains — Volume One | NorthStar Prime", "url": "https://northstarprime.net/idr/signal-refrains/volume-01/", "isPartOf": {"@type": "WebSite", "name": "NorthStar Prime", "url": "https://northstarprime.net/"}, "publisher": {"@type": "Organization", "name": "NorthStar Prime", "url": "https://northstarprime.net/"}, "description": "Nine original dream-inspired NorthStar songs and an evidence-bounded craft analysis about weather, testimony, thresholds, and choice.", "inLanguage": "en"}</script>
 </head>
 <body>
